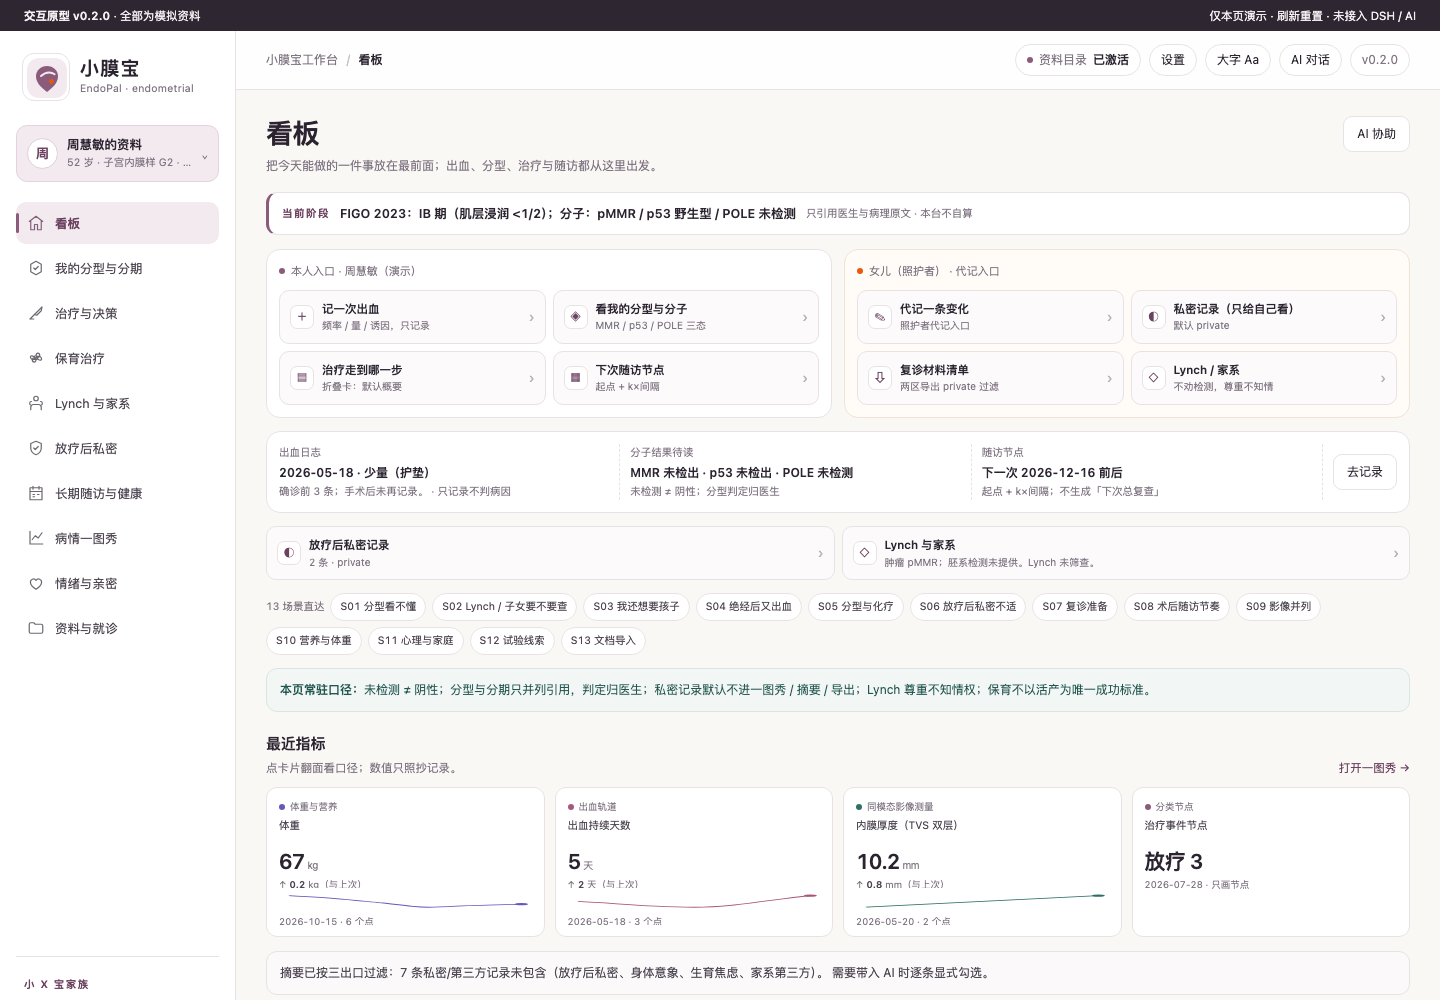
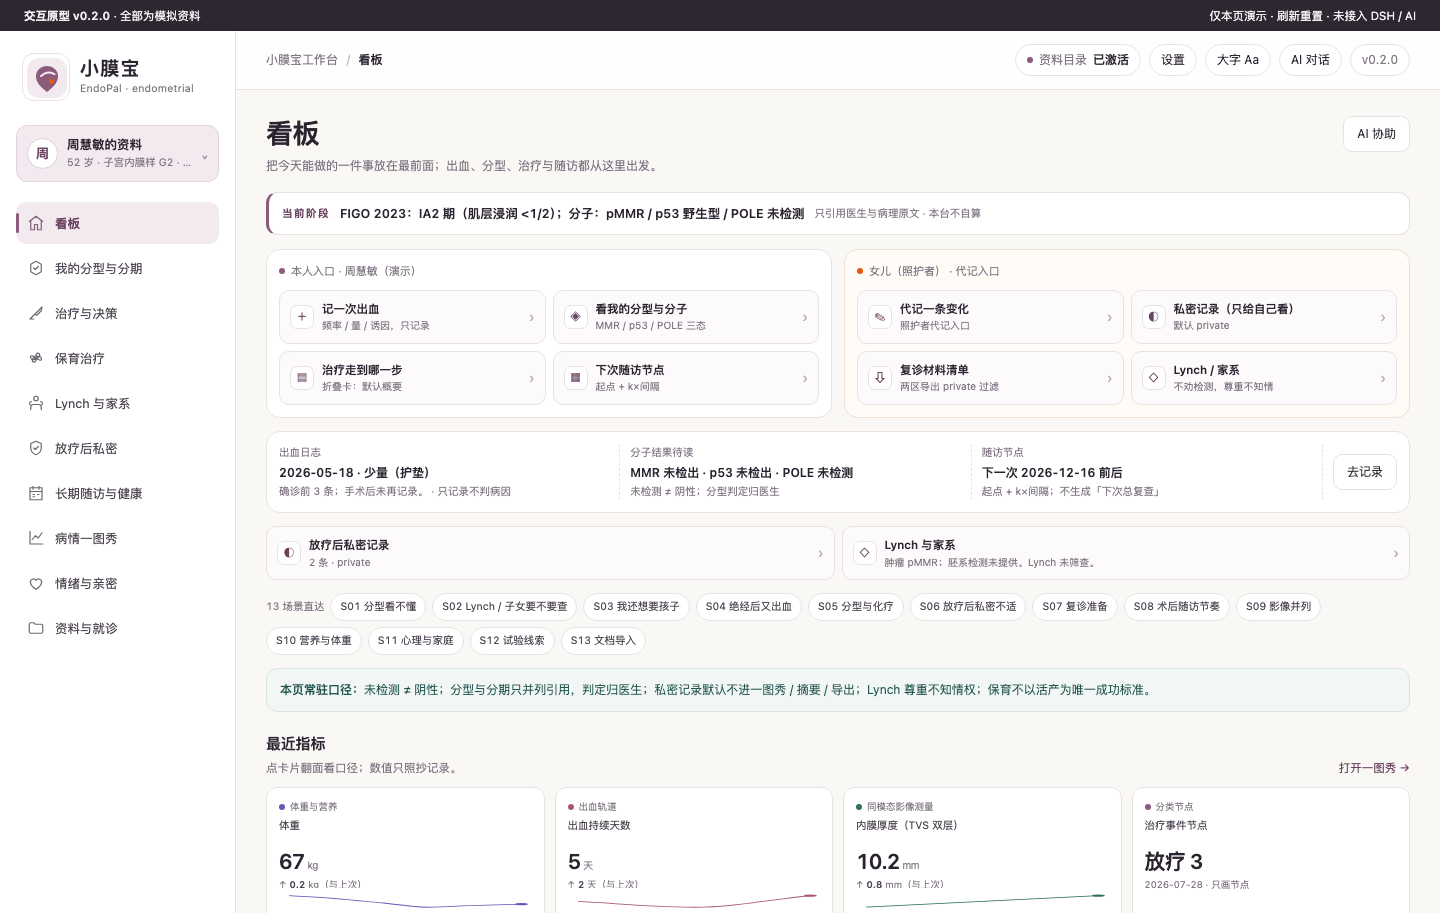
G2 收口（复审2 四项）: index.html 默认摘要 IB→IA2/demo2 解剖期 IA2/断言补档案级守卫（变异 D 已拦截）/3 张 canonical 截图覆盖

diff --git a/prototypes/v0.2/index.html b/prototypes/v0.2/index.html
@@ -17,7 +17,7 @@
     </span><div><strong>小膜宝</strong><span>EndoPal · endometrial</span></div></div>
     <button class="profile profile-btn" id="profile-btn" data-action="profiles" aria-label="切换演示档案，当前为周慧敏">
       <div class="avatar" id="profile-avatar" aria-hidden="true">周</div>
-      <div><b id="profile-name">周慧敏的资料</b><span id="profile-meta">52 岁 · 子宫内膜样 G2 · FIGO IB</span></div>
+      <div><b id="profile-name">周慧敏的资料</b><span id="profile-meta">52 岁 · 子宫内膜样 G2 · FIGO IA2</span></div>
       <span class="profile-caret" aria-hidden="true">⌄</span>
     </button>
     <nav id="nav" aria-label="一级导航"></nav>

diff --git a/prototypes/v0.2/demo-data.js b/prototypes/v0.2/demo-data.js
@@ -1463,7 +1463,7 @@ window.DEMO_DATA = {
           },
           {
             "d": "2026-06-10",
-            "anatomical": "IA 期（肌层浸润 <1/2，MRI）",
+            "anatomical": "IA2 期（肌层浸润 <1/2，MRI）",
             "finalLabel": "IAmPOLEmut（医生记录，分子标签并列）",
             "marker": "POLE 超突变（检出）· PMS2 缺失 · p53 野生",
             "change": "none",

diff --git a/docs/DESIGN-REVIEW.md b/docs/DESIGN-REVIEW.md
@@ -271,3 +271,78 @@ node scripts/probe-responsive.mjs   # 90 views, overflow/vertical/clipped = 0
   4. 重出 `readme-molecular-0.2.0.png`（以及任何受 `diagnosisShort` 影响的截图）；
   5. 回写 `docs/32` §3.4/§5 与 `templates/TREATMENT-PATHWAY.md`：判据改为「打印媒体下 `.pd-block` 文本可提取」，并把 `probe:proto` 升级为 `Page.printToPDF` 文本断言。
 - 关闭以上 5 项后，可再次提交返工复审；在此之前 G2 走查会带着「打印件写 IB、分子页自称多重分类」两处医生一眼可见的错误。
+
+---
+
+# §复审2（第三次复审 · P0-1 关闭验证）
+
+## S0. 元信息
+
+| 项 | 内容 |
+| --- | --- |
+| 复审人 / 模型 | 独立评审员（GLM-5.3 / max），非本仓作者模型 |
+| 复审日期 | 2026-10-25 |
+| 代码基线 | HEAD `1d896ac`（返工 `a4a1089` / `cd4b0b8` / `1d896ac`） |
+| 复审范围 | 仅 P0-1 逐子项关闭验证 + 断言有效性（含变异测试）+ 截图目视 + 五处期别一致性；不重审 P0-2 与 P1 全量 |
+| 方法 | 源码读取 + 实测（断言脚本 4 组变异对照、全仓 grep、截图裁切目视、mtime/commit 追溯）；不采信提交说明 |
+| 声明 | 只追加记录，不删改前两轮正文；结论不代表发布授权 |
+
+**结论先行：P0-1 的医学数据与断言部分 CLOSED；产物层仍 OPEN（静态兜底 1 处 + canonical 看板截图 3 张 + 诊断字段无守卫）。总体判断：仍需返工（一次性小收口），G2 暂不可签。**
+
+---
+
+## S1. P0-1 逐子项关闭表
+
+| # | 子项 | 命令 / 证据 | 实测输出 | 判定 |
+| --- | --- | --- | --- | --- |
+| 1 | demo1 三段期别全为 IA2 | `node -e` 解析 `DEMO_DATA` 输出 `stage.versions` | `2026-05-27 IA（暂定，依据活检）` → `2026-06-16 IA2 期（解剖期）` → `2026-07-02 IA2（解剖期，分子未改变期别）`；anatomical 同步 `IA2 期（肌层浸润 <1/2）` | **CLOSED** |
+| 2 | 三个指定文件 `FIGO IB` 清零 | `grep -c "FIGO IB"` | `demo-data.js` 0 / `build-demo-data.mjs` 0 / `app.js` 0 | **CLOSED** |
+| 3 | `IB 期` 全仓残留 | `grep -rn "FIGO IB\|IB 期" .`（排除 `.git` 与本文件历史引文） | 唯一命中 `prototypes/v0.2/index.html:20`：`<span id="profile-meta">52 岁 · 子宫内膜样 G2 · FIGO IB</span>`；其余全部位于本文件前两轮正文（历史引文，应留） | **OPEN（残留 1 处静态兜底）** |
+| 4 | 档案级 `diagnosis/diagnosisShort` 同步 | 同一 dump | demo1：`diagnosis`=「子宫内膜样腺癌 G2 · FIGO IA2 期 · …」、`diagnosisShort`=「子宫内膜样 G2 · FIGO IA2 · 放疗后随访」；demo2：`stageLine`=「FIGO 2023：IAmPOLEmut（肌层浸润 <1/2 + POLE 致病性变异）…」 | **CLOSED（数据层）** |
+| 5 | 看板/导出/分期截图目视 | 裁切 `crop((260,180,1100,250))` 目视 + `git log --oneline -- <file>` | `readme-dashboard-0.2.0.png`(13:10) 与 `readme-export-private-0.2.0.png`(13:09) 均为 `IA2 期（肌层浸润 <1/2）`；`stage-figo-demo1.png` 三段 IA/IA2；`stage-figo-demo2.png` 为 `IAmPOLEmut`；**但 `docs/shots/dash-main-demo1.png`、`dash-agent-demo1.png` 仍渲染「FIGO 2023：IB 期（肌层浸润 <1/2）」，`dash-main-demo2.png` 仍渲染旧串「IA 期…POLE 超突变（检出）· MMR：PMS2 缺失」** | **OPEN（3 张 canonical 图未覆盖重出）** |
+| 6 | demo2 `stageLine` 与分期页一致 | dump `stage.versions` | `2026-06-10 finalLabel=IAmPOLEmut（医生记录，分子标签并列）`、`2026-08-12 IAmPOLEmut（维持）`，与 stageLine 同标签 | **CLOSED** |
+| 7 | demo2 `multiple` 如实写 multiple classifier | `demo-data.js:1519`；`build-demo-data.mjs:551` | 「POLEmut 与 MMRd（PMS2 缺失）并列：报告注明 multiple classifier；按 FIGO 2023 以 POLEmut 定最终标签（IAmPOLEmut）…」；marker=`POLE 超突变（检出）· PMS2 缺失 · p53 野生` | **CLOSED** |
+| 8 | demo1 `multiple` 不伪造 | `demo-data.js:301`；`build-demo-data.mjs:159` | 「本档案为单一分子语境：MMR 完整（pMMR）、p53 野生型、POLE 未检测；报告未注明 multiple classifier。POLE 未检测不等于非超突变…」；与 marker `pMMR / p53 野生 / POLE 未检测` 一致 | **CLOSED** |
+| 9 | 断言读对字段 + 单特征反例 | `cat scripts/check-stage-consistency.mjs` | `:37` 读 `p.molecular?.multiple`（不再读不存在的 `p.stage?.multiple`）；`:41-45` 单一特征反例（pMMR/p53 野生 + POLE 未检测 却写「POLEmut 与 MMRd 并列」即失败）；`:33` POLEmut→IAmPOLEmut 规则 | **CLOSED** |
+| 10 | 断言非空转（变异测试） | 复制后改 3 处，分别跑脚本取真实 exit code | A（demo2 文案贴回 demo1）→ `exit=1`「demo1: 单一特征档案却写「POLEmut 与 MMRd 并列」」；B（demo2 改回「不是多重分类」）→ `exit=1`「demo2: 含 ≥2 分子特征却写「不是多重分类」」；C（demo1 finalLabel `IA2`→`IA`）→ `exit=1`「anatomical「IA2」与 finalLabel「IA」期别不同源（2026-06-16）」 | **CLOSED（三条规则均真实触发）** |
+| 11 | 断言进 `check` 链 | `package.json:23`；`npm run check` | 链尾 `&& node scripts/check-stage-consistency.mjs`；实跑输出 `staticPass: true` / `errors: []` + `✓ 分期一致性断言通过（…）` | **CLOSED** |
+| 12 | 断言覆盖 `diagnosisShort/stageLine` | 变异 D：仅把 demo1 `diagnosisShort` 改回「FIGO IB」 | 脚本仍 `exit=0` 输出✓ → 上一轮实际外泄路径（header / 打印头 / AI 上下文）依旧无守卫（上一轮 R4 清单第 3 条只落实了字段路径与入链，未落实此项） | **OPEN（守卫缺口）** |
+
+---
+
+## S2. 残留与新问题
+
+| # | 级别 | 问题 | 落点 / 证据 |
+| --- | --- | --- | --- |
+| N-9 | **P1** | 64 张 canonical 页签截图里 3 张看板图未随数据重出：`dash-main-demo1.png`、`dash-agent-demo1.png` 仍显示 IB，`dash-main-demo2.png` 仍显示旧 `stageLine`。本轮返工把新图另存为 `fix3-dash-.png`/`final-dash-.png`/`rework-dash-.png`，未覆盖 canonical 文件名，故「重截看板」在交付集里不成立；提交 `1d896ac` 的「最终残留=0」与事实不符 | `git log --oneline -1 -- docs/shots/dash-main-demo1.png docs/shots/dash-agent-demo1.png docs/shots/dash-main-demo2.png` → 均停在 `fe46a57`（返工前）；`README.md:71` 以 `docs/shots/` 64 图作为自验证据 |
+| N-10 | **P1** | 静态 HTML 兜底仍写 `FIGO IB`：首屏 JS（`app.js:378` 覆写 `#profile-meta`）执行前侧栏会闪现旧期别，源码级 grep 亦非零，直接推翻「清零」结论 | `prototypes/v0.2/index.html:20` |
+| N-11 | **P1** | 断言不含 `diagnosisShort`/`stageLine` 与当前 `finalLabel` 的同源校验（变异 D 通过）。上一轮正是这两处带 IB 逃逸到打印件与 AI 上下文；修了字段路径却仍留同一逃逸口 | `scripts/check-stage-consistency.mjs`（全文 50 行，仅 4 条规则） |
+| N-12 | P2（N-8 残留） | demo2 当前解剖期写作裸「IA 期（肌层浸润 <1/2，MRI）」，而项目自有字典（`research-notes/medical-constraints.md:157`）规定「非侵袭性类型 + 肌层浸润 <50% = IA2」；demo1 同条件写 IA2 → 同页两档案口径不一致。断言用罗马数字比较（`IA` vs `IA`）无法发现 | `prototypes/v0.2/demo-data.js:1466`；`docs/shots/stage-figo-demo2.png` 目视 |
+| N-13 | P2（N-4 残留） | `readme-molecular-0.2.0.png` 仍为 09:51 旧图，文案「本档案不是多重分类（报告未注明 multiple classifier）」；当前数据为「本档案为单一分子语境…未注明 multiple classifier」。语义仍成立（demo1 确为单一特征），仅文案漂移，不构成医学矛盾 | `docs/screenshots/readme-molecular-0.2.0.png`；`demo-data.js:301` |
+
+---
+
+## S3. 五处期别一致性抽查
+
+| 落点 | demo1 | demo2 | 判定 |
+| --- | --- | --- | --- |
+| `diagnosisShort`（侧栏 / 档案切换 / AI 上下文） | `子宫内膜样 G2 · FIGO IA2 · 放疗后随访` | `子宫内膜样 G1 · FIGO IA · POLE 超突变 · 保育中` | demo1 一致；demo2 用解剖期 IA（见 N-12） |
+| `diagnosis`（打印头） | `…FIGO IA2 期…` | `…FIGO IA 期 · POLE 超突变（检出）…` | demo1 一致；demo2 同上 |
+| 对照表 `ctx` | 无期别断言（`POLE 未检测` / `pMMR · 复发/晚期` 等） | `POLEmut · IA 期（保育语境）` | 不再出现 IB 或「pMMR · IB 期」 |
+| `stageLine`（看板「当前阶段」） | `IA2 期（肌层浸润 <1/2）` | `IAmPOLEmut（肌层浸润 <1/2 + POLE 致病性变异）` | 一致（但 demo2 看板图为旧图，见 N-9） |
+| README | 无期别事实句（只写「FIGO 2023 版本链引用」） | 同左 | 不构成矛盾 |
+
+---
+
+## S4. 总体判断
+
+**仍需返工；G2 暂不可签（但已是一次小收口，不是重做）。**
+
+- **P0-1 的实质已修好**：demo1 全部期别事实（`diagnosis`/`diagnosisShort`/`stageLine`/版本链/导出预览）统一为 IA2；demo2 恢复为 `IAmPOLEmut` 且 `multiple` 如实并列；demo1 `multiple` 回到单一分子语境；断言脚本读对 `molecular.multiple`、含单特征反例、三条规则经变异测试全部真实触发、并已挂进 `npm run check`。上一轮的两个新增 P0（demo1 伪造 multiple、断言空转）均已消失。
+- **卡在产物层与守卫层（3 项）**：① `index.html:20` 仍是 IB（首屏 JS 前可闪现，且「残留=0」不成立）；② `docs/shots/` 3 张 canonical 看板图仍是返工前的 IB / 旧 stageLine（交付证据与数据相反）；③ 断言仍未覆盖 `diagnosisShort/stageLine`——上一轮实际逃逸口原样保留，变异 D 可复现通过。
+- **最小收口清单（预计一次提交即可签）**：
+  1. `prototypes/v0.2/index.html:20` → `FIGO IA2`；
+  2. 用现有渲染覆盖重出 `docs/shots/dash-main-demo1.png`、`dash-agent-demo1.png`、`dash-main-demo2.png`（`fix3-dash-.png` 已是正确 IA2 版本，可直接覆盖）；
+  3. 断言补两条：`diagnosisShort`/`stageLine` 与当前 `finalLabel` 同源（POLEmut ⇒ 含 `IAmPOLEmut`；解剖期罗马数字一致），以及字典级「肌层浸润 <1/2 ⇒ IA2，不得写 IA/IB」；
+  4. （P2，可同批）demo2 解剖期 `IA` → `IA2`；`readme-molecular-0.2.0.png` 文案同步。
+- 以上 4 项完成后可直接签 G2，无需再走完整三轮复审；未完成前，G2 走查的截图证据仍会把 IB 送到医生视野。
